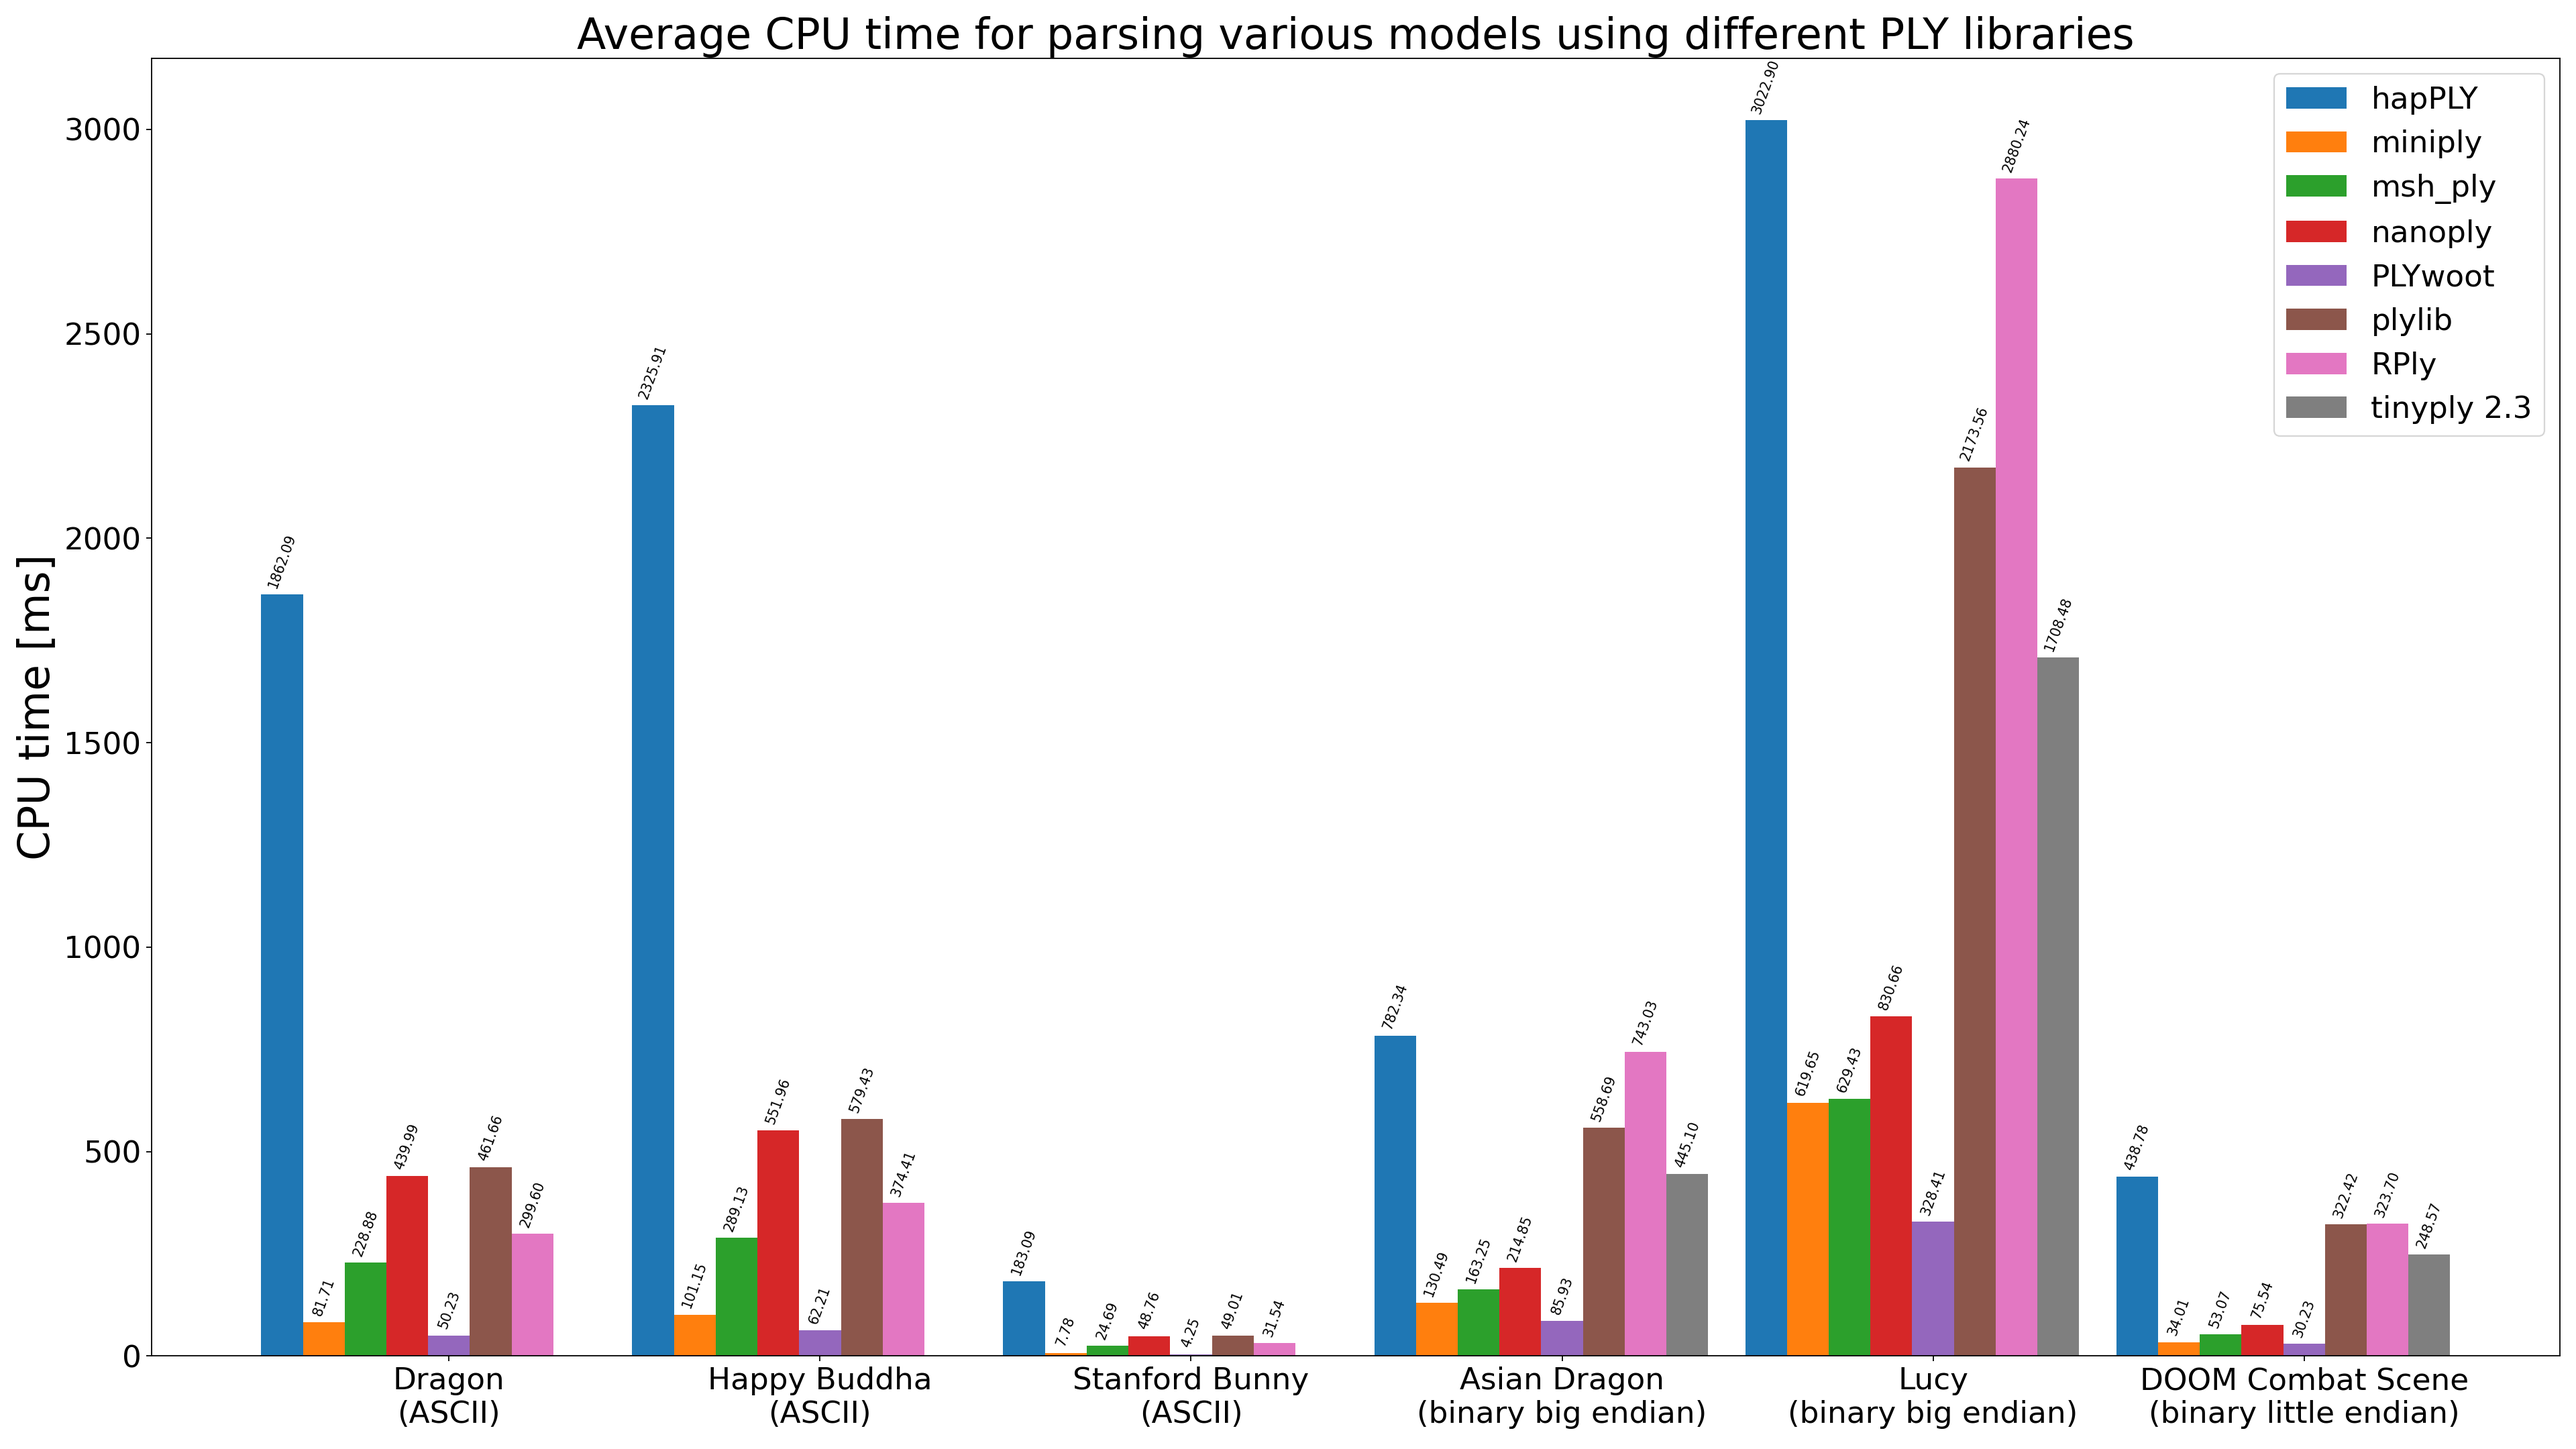
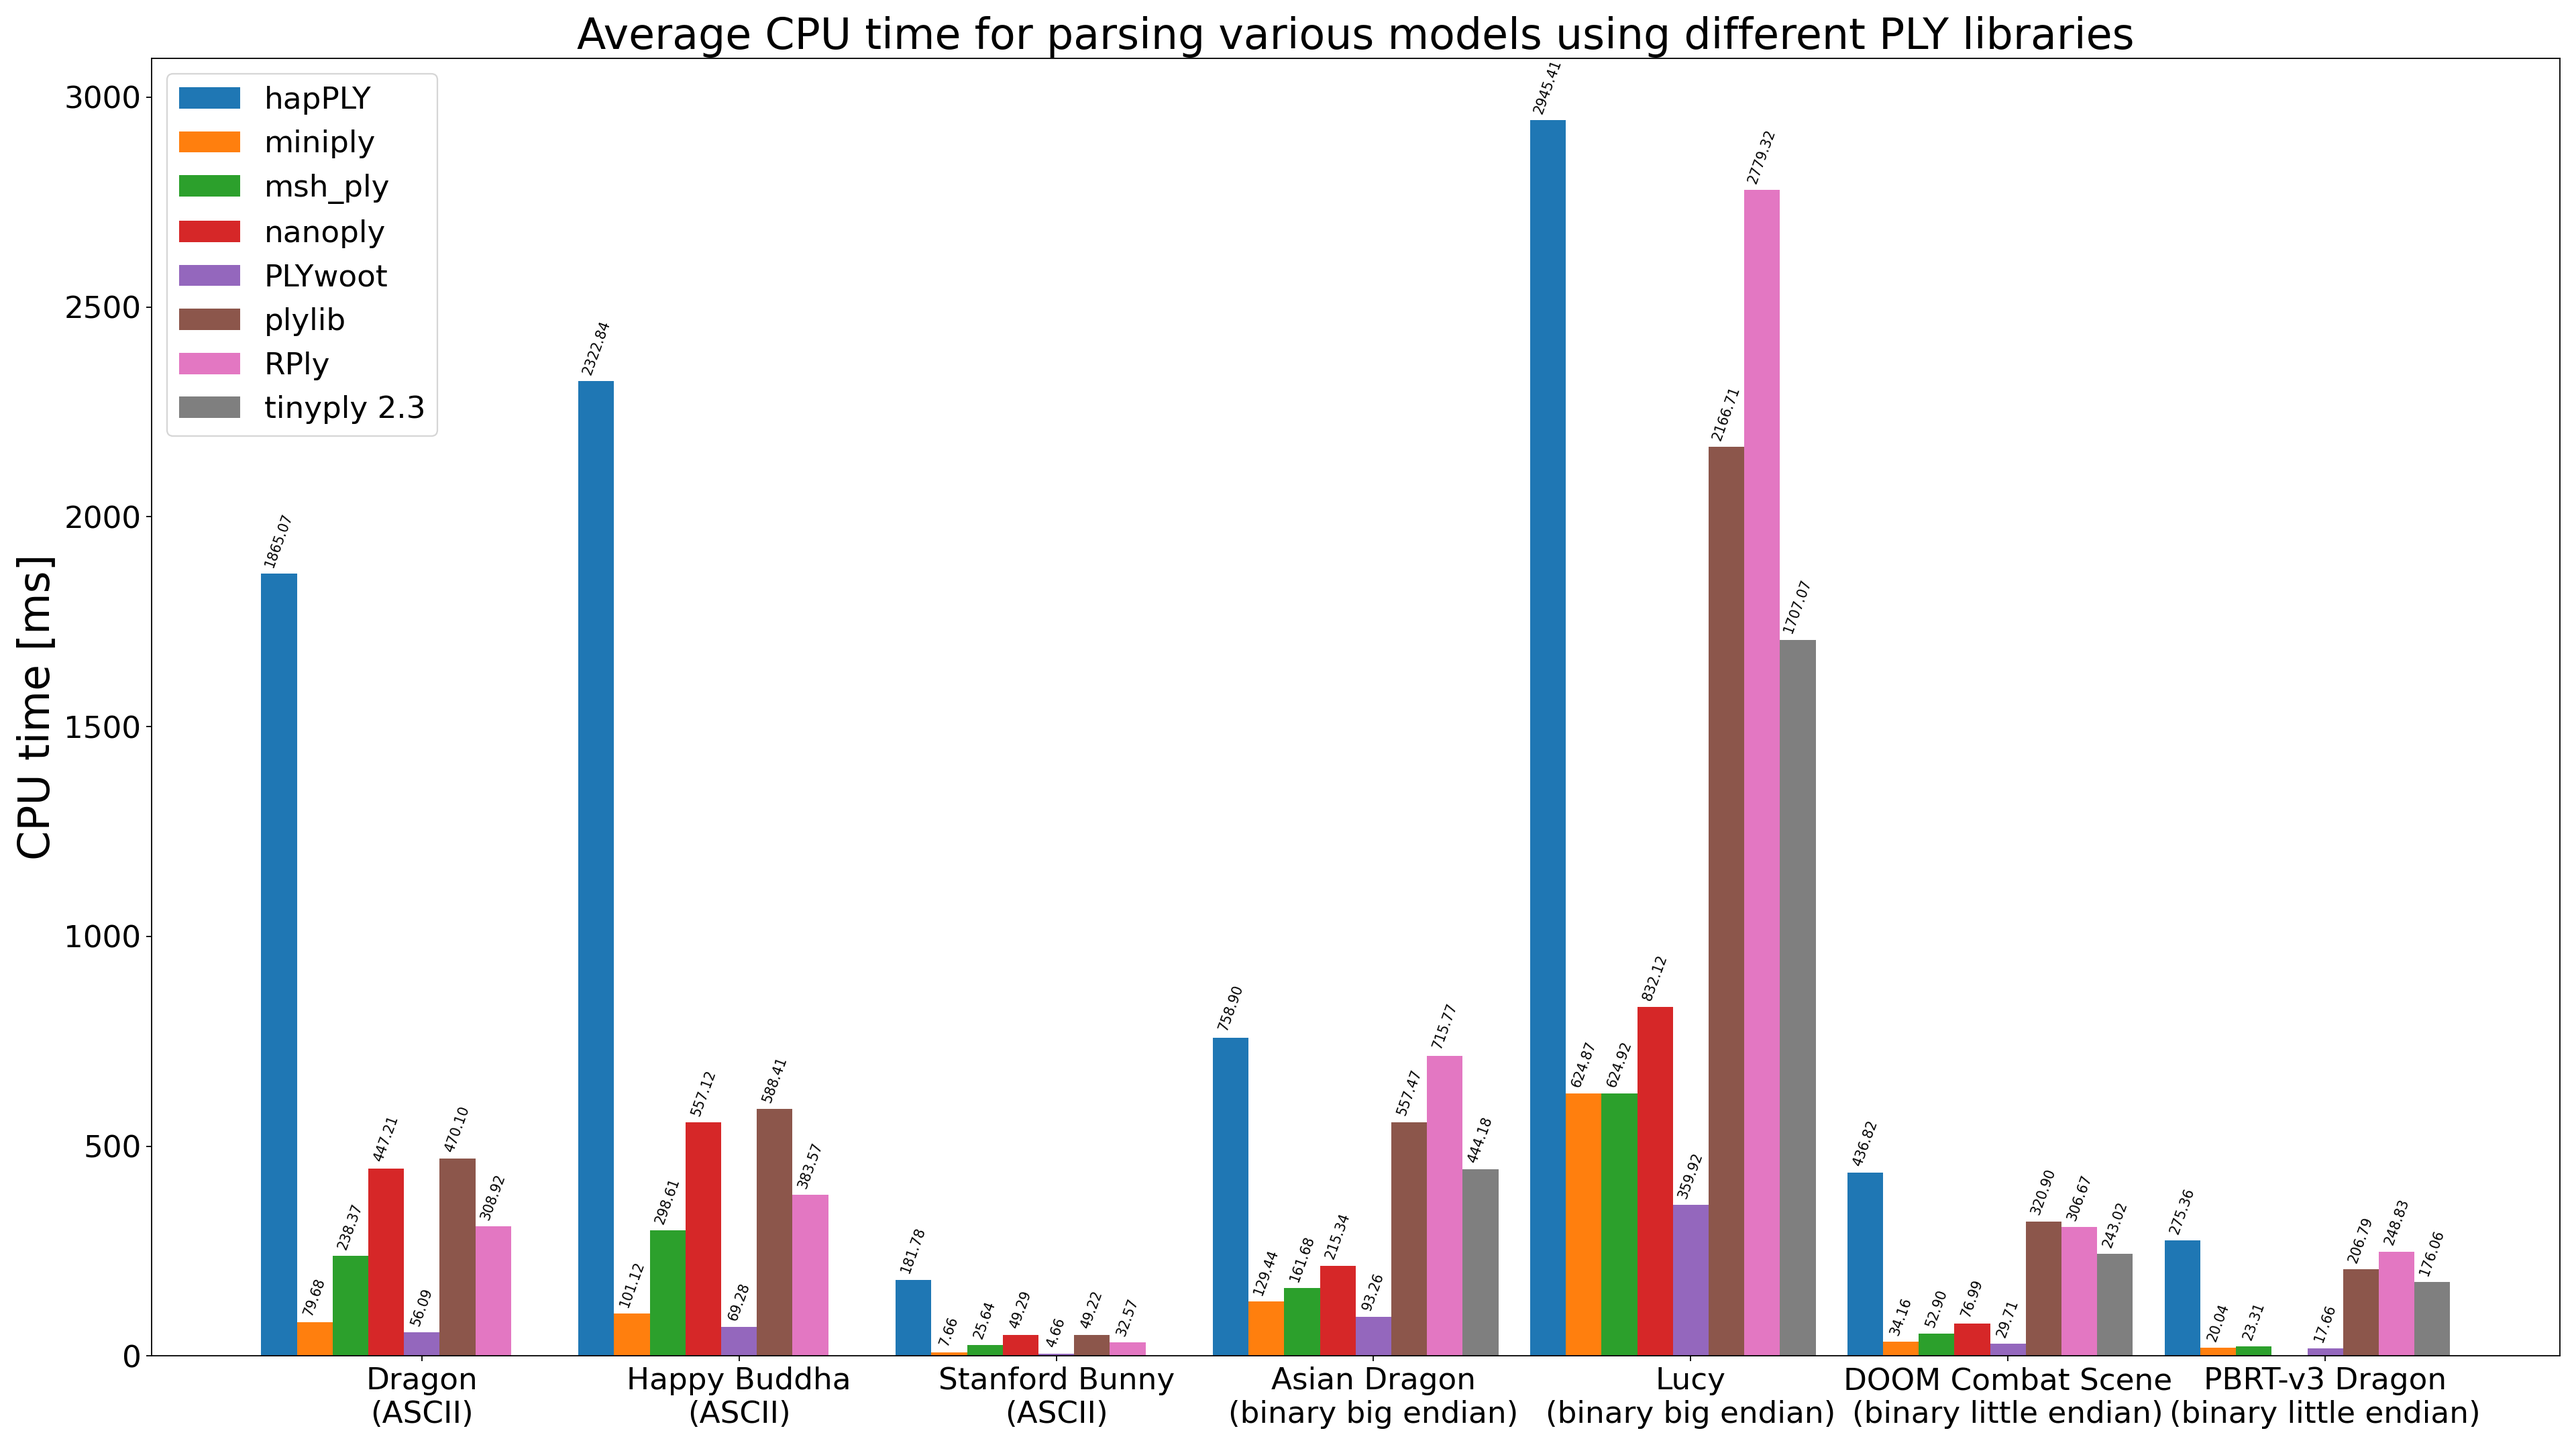
Improve interpreting benchmark JSON results
In case a benchmark errors out, do not include it in the benchmark
results and graphs.

Furthermore, do not weigh the overall relative performance according to
the number of models per format type; this would give an unfair
advantage to libraries that would have strong performance for some
format type for which more models are available than other format types.

diff --git a/scripts/plot_graph.py b/scripts/plot_graph.py
@@ -43,7 +43,7 @@ write_benchmark_parser_names = { \
 def render_graph(benchmarks, output_png_file, benchmark_metric, benchmark_parser_names, title, ylabel):
     # Mapping from a parser name and model name to the time required to parse that
     # model by that parser.
-    cpu_times_by_parser_and_model = {}
+    metric_by_parser_and_model = {}
 
     # Create a mapping, from PLY file to parser benchmark results.
     for benchmark in benchmarks:
@@ -55,10 +55,10 @@ def render_graph(benchmarks, output_png_file, benchmark_metric, benchmark_parser
         model_name = '\n('.join(model_name.strip('"').split(' ('))
 
         if benchmark_name in benchmark_parser_names:
-            cpu_times_by_parser_and_model[(benchmark_name, model_name)] = benchmark[benchmark_metric]
+            metric_by_parser_and_model[(benchmark_name, model_name)] = float('NaN') if 'error_occurred' in benchmark else benchmark[benchmark_metric]
 
     # List of 3D model names, sorted on the format type first, model name second.
-    model_names = sorted(list(set([model_name for _, model_name in cpu_times_by_parser_and_model.keys()])), key=lambda n: tuple(reversed(n.split('\n'))))
+    model_names = sorted(list(set([model_name for _, model_name in metric_by_parser_and_model.keys()])), key=lambda n: tuple(reversed(n.split('\n'))))
 
     fig, ax = matplotlib.pyplot.subplots(figsize=(width / dpi, height / dpi))
     x_offset = list(range(len(model_names)))
@@ -67,8 +67,8 @@ def render_graph(benchmarks, output_png_file, benchmark_metric, benchmark_parser
     bar_offset = -0.5 * bars_width
 
     for benchmark_name, parser_name in benchmark_parser_names.items():
-        cpu_times = [cpu_times_by_parser_and_model.get((benchmark_name, model_name), float("NaN")) for model_name in model_names]
-        rect = ax.bar(list(map(lambda x : x + bar_offset, x_offset)), cpu_times, bar_width, label=parser_name)
+        metric = [metric_by_parser_and_model.get((benchmark_name, model_name), float('NaN')) for model_name in model_names]
+        rect = ax.bar(list(map(lambda x : x + bar_offset, x_offset)), metric, bar_width, label=parser_name)
         bar_offset += bar_width
         ax.bar_label(rect, fmt='%.2f', padding=3, fontsize=bar_label_fontsize, rotation=70)
 
@@ -104,7 +104,7 @@ def render_write_cpu_time_graph(benchmarks, output_png_file):
 
 def render_parse_transfer_speed_graph(benchmarks, output_png_file):
     for benchmark in benchmarks:
-        benchmark['mib_per_second'] = benchmark['bytes_per_second'] / (1024 * 1024)
+        benchmark['mib_per_second'] = float('NaN') if 'error_occurred' in benchmark else benchmark['bytes_per_second'] / (1024 * 1024)
 
     render_graph(benchmarks,
                  output_png_file,
@@ -116,7 +116,7 @@ def render_parse_transfer_speed_graph(benchmarks, output_png_file):
 
 def render_write_transfer_speed_graph(benchmarks, output_png_file):
     for benchmark in benchmarks:
-        benchmark['mib_per_second'] = benchmark['bytes_per_second'] / (1024 * 1024)
+        benchmark['mib_per_second'] = float('NaN') if 'error_occurred' in benchmark else benchmark['bytes_per_second'] / (1024 * 1024)
 
     render_graph(benchmarks,
                  output_png_file,

diff --git a/scripts/generate_readme.py b/scripts/generate_readme.py
@@ -5,6 +5,8 @@ import json
 import string
 import sys
 
+from collections import defaultdict
+
 library_url = {
     'hapPLY': 'https://github.com/nmwsharp/happly',
     'miniply': 'https://github.com/vilya/miniply',
@@ -46,9 +48,8 @@ def make_results_table(benchmarks, benchmark_library_names, format_type_fn):
     cpu_time_by_format_type_and_library = {}
 
     format_types = set()
-    models_per_format_type = dict()
 
-    for benchmark in benchmarks:
+    for benchmark in filter(lambda bm : 'error_occurred' not in bm, benchmarks):
         benchmark_name, _, model_name = benchmark['name'].partition('/')
 
         if benchmark_name in benchmark_library_names:
@@ -56,10 +57,7 @@ def make_results_table(benchmarks, benchmark_library_names, format_type_fn):
 
             if format_type not in format_types:
                 format_types.add(format_type)
-                models_per_format_type[format_type] = 1
                 cpu_time_by_format_type_and_library[format_type] = dict()
-            else:
-                models_per_format_type[format_type] += 1
 
             cpu_time = benchmark['cpu_time']
             library = benchmark_library_names[benchmark_name]
@@ -74,10 +72,10 @@ def make_results_table(benchmarks, benchmark_library_names, format_type_fn):
 
     # Calculate an overall relative performance, by weighting the performance
     # per format type according to the number of models for that format type.
-    overall_relative_performance_by_library = dict()
+    overall_relative_performance_by_library = defaultdict(list)
     for format_type, relative_performance_by_library in relative_performance_by_format_type_and_library.items():
         for library, relative_performance in relative_performance_by_library.items():
-            overall_relative_performance_by_library[library] = overall_relative_performance_by_library.get(library, []) + models_per_format_type[format_type] * [relative_performance]
+            overall_relative_performance_by_library[library].append(relative_performance)
 
     for library, relative_performance in overall_relative_performance_by_library.items():
         overall_relative_performance_by_library[library] = sum(relative_performance) / len(relative_performance)

diff --git a/README.md b/README.md
@@ -47,13 +47,13 @@ The following lists the average relative read performance of each PLY library av
 | # | Library name                                                               | Overall        | ASCII          | Binary big endian | Binary little endian |
 |:-:|:--------------------------------------------------------------------------:|:--------------:|:--------------:|:-----------------:|:--------------------:|
 | 1 | [PLYwoot](https://github.com/ton/plywoot)                                  | *1.00*         | *1.00*         | *1.00*            | *1.00*               |
-| 2 | [miniply](https://github.com/vilya/miniply)                                | 1.72x slower   | 1.83x slower   | 1.89x slower      | 1.12x slower         |
-| 3 | [msh_ply](https://github.com/mhalber/msh)                                  | 3.70x slower   | 5.81x slower   | 1.92x slower      | 1.76x slower         |
-| 4 | [tinyply 2.3](https://github.com/ddiakopoulos/tinyply)                     | 6.21x slower   | N/A            | 5.20x slower      | 8.22x slower         |
-| 5 | [nanoply](https://github.com/cnr-isti-vclab/vcglib/tree/main/wrap/nanoply) | 6.69x slower   | 11.46x slower  | 2.53x slower      | 2.50x slower         |
-| 6 | [RPly](https://w3.impa.br/~diego/software/rply)                            | 8.48x slower   | 7.42x slower   | 8.77x slower      | 10.71x slower        |
-| 7 | [plylib](https://github.com/cnr-isti-vclab/vcglib/tree/main/wrap/ply)      | 9.63x slower   | 11.52x slower  | 6.62x slower      | 10.67x slower        |
-| 8 | [hapPLY](https://github.com/nmwsharp/happly)                               | 25.94x slower  | 43.05x slower  | 9.20x slower      | 14.52x slower        |
+| 2 | [miniply](https://github.com/vilya/miniply)                                | 1.50x slower   | 1.64x slower   | 1.74x slower      | 1.13x slower         |
+| 3 | [msh_ply](https://github.com/mhalber/msh)                                  | 2.85x slower   | 5.50x slower   | 1.74x slower      | 1.32x slower         |
+| 4 | [nanoply](https://github.com/cnr-isti-vclab/vcglib/tree/main/wrap/nanoply) | 5.75x slower   | 10.57x slower  | 2.31x slower      | 4.36x slower         |
+| 5 | [tinyply 2.3](https://github.com/ddiakopoulos/tinyply)                     | 7.36x slower   | N/A            | 4.74x slower      | 9.97x slower         |
+| 6 | [plylib](https://github.com/cnr-isti-vclab/vcglib/tree/main/wrap/ply)      | 9.43x slower   | 10.56x slower  | 6.02x slower      | 11.71x slower        |
+| 7 | [RPly](https://w3.impa.br/~diego/software/rply)                            | 9.60x slower   | 6.99x slower   | 7.72x slower      | 14.09x slower        |
+| 8 | [hapPLY](https://github.com/nmwsharp/happly)                               | 20.92x slower  | 39.00x slower  | 8.18x slower      | 15.59x slower        |
 
 
 The following graph plots average CPU time per model per PLY library (lower numbers are better):
@@ -70,12 +70,12 @@ The following lists the average relative write performance of each PLY library a
 
 | # | Library name                                                               | Overall        | ASCII          | Binary         |
 |:-:|:--------------------------------------------------------------------------:|:--------------:|:--------------:|:--------------:|
-| 1 | [msh_ply](https://github.com/mhalber/msh)                                  | *1.00*         | 1.11x slower   | *1.00*         |
-| 2 | [PLYwoot](https://github.com/ton/plywoot)                                  | 1.00x slower   | *1.00*         | 1.12x slower   |
-| 3 | [nanoply](https://github.com/cnr-isti-vclab/vcglib/tree/main/wrap/nanoply) | 1.67x slower   | 1.55x slower   | 1.97x slower   |
-| 4 | [RPly](https://w3.impa.br/~diego/software/rply)                            | 2.32x slower   | 1.03x slower   | 3.87x slower   |
-| 5 | [tinyply 2.3](https://github.com/ddiakopoulos/tinyply)                     | 2.38x slower   | 1.36x slower   | 3.66x slower   |
-| 6 | [hapPLY](https://github.com/nmwsharp/happly)                               | 4.06x slower   | 1.37x slower   | 7.19x slower   |
+| 1 | [msh_ply](https://github.com/mhalber/msh)                                  | *1.00*         | 1.13x slower   | *1.00*         |
+| 2 | [PLYwoot](https://github.com/ton/plywoot)                                  | 1.01x slower   | *1.00*         | 1.14x slower   |
+| 3 | [nanoply](https://github.com/cnr-isti-vclab/vcglib/tree/main/wrap/nanoply) | 1.68x slower   | 1.59x slower   | 2.00x slower   |
+| 4 | [RPly](https://w3.impa.br/~diego/software/rply)                            | 2.30x slower   | 1.04x slower   | 3.86x slower   |
+| 5 | [tinyply 2.3](https://github.com/ddiakopoulos/tinyply)                     | 2.41x slower   | 1.37x slower   | 3.77x slower   |
+| 6 | [hapPLY](https://github.com/nmwsharp/happly)                               | 4.09x slower   | 1.41x slower   | 7.31x slower   |
 
 
 The following graph plots average CPU time for writing a fixed triangle mesh with 100.000 semi-random triangles per PLY library (lower numbers are better):
@@ -107,6 +107,7 @@ Notes:
 
 1. At the time of writing, tinyply 2.3 seems to have issues reading ASCII files (https://github.com/ddiakopoulos/tinyply/issues/59). Benchmarking ASCII models was therefore disabled for tinyply.
 2. Miniply and plylib do not (directly) support writing PLY files, and are therefore excluded from the write benchmarks.
+3. nanoply does not correctly parse the 'PBRT-v3 Dragon' model, I suspect this is because it does not properly handle the face normals being defined as part of the face element.
 
 ## Models
 
